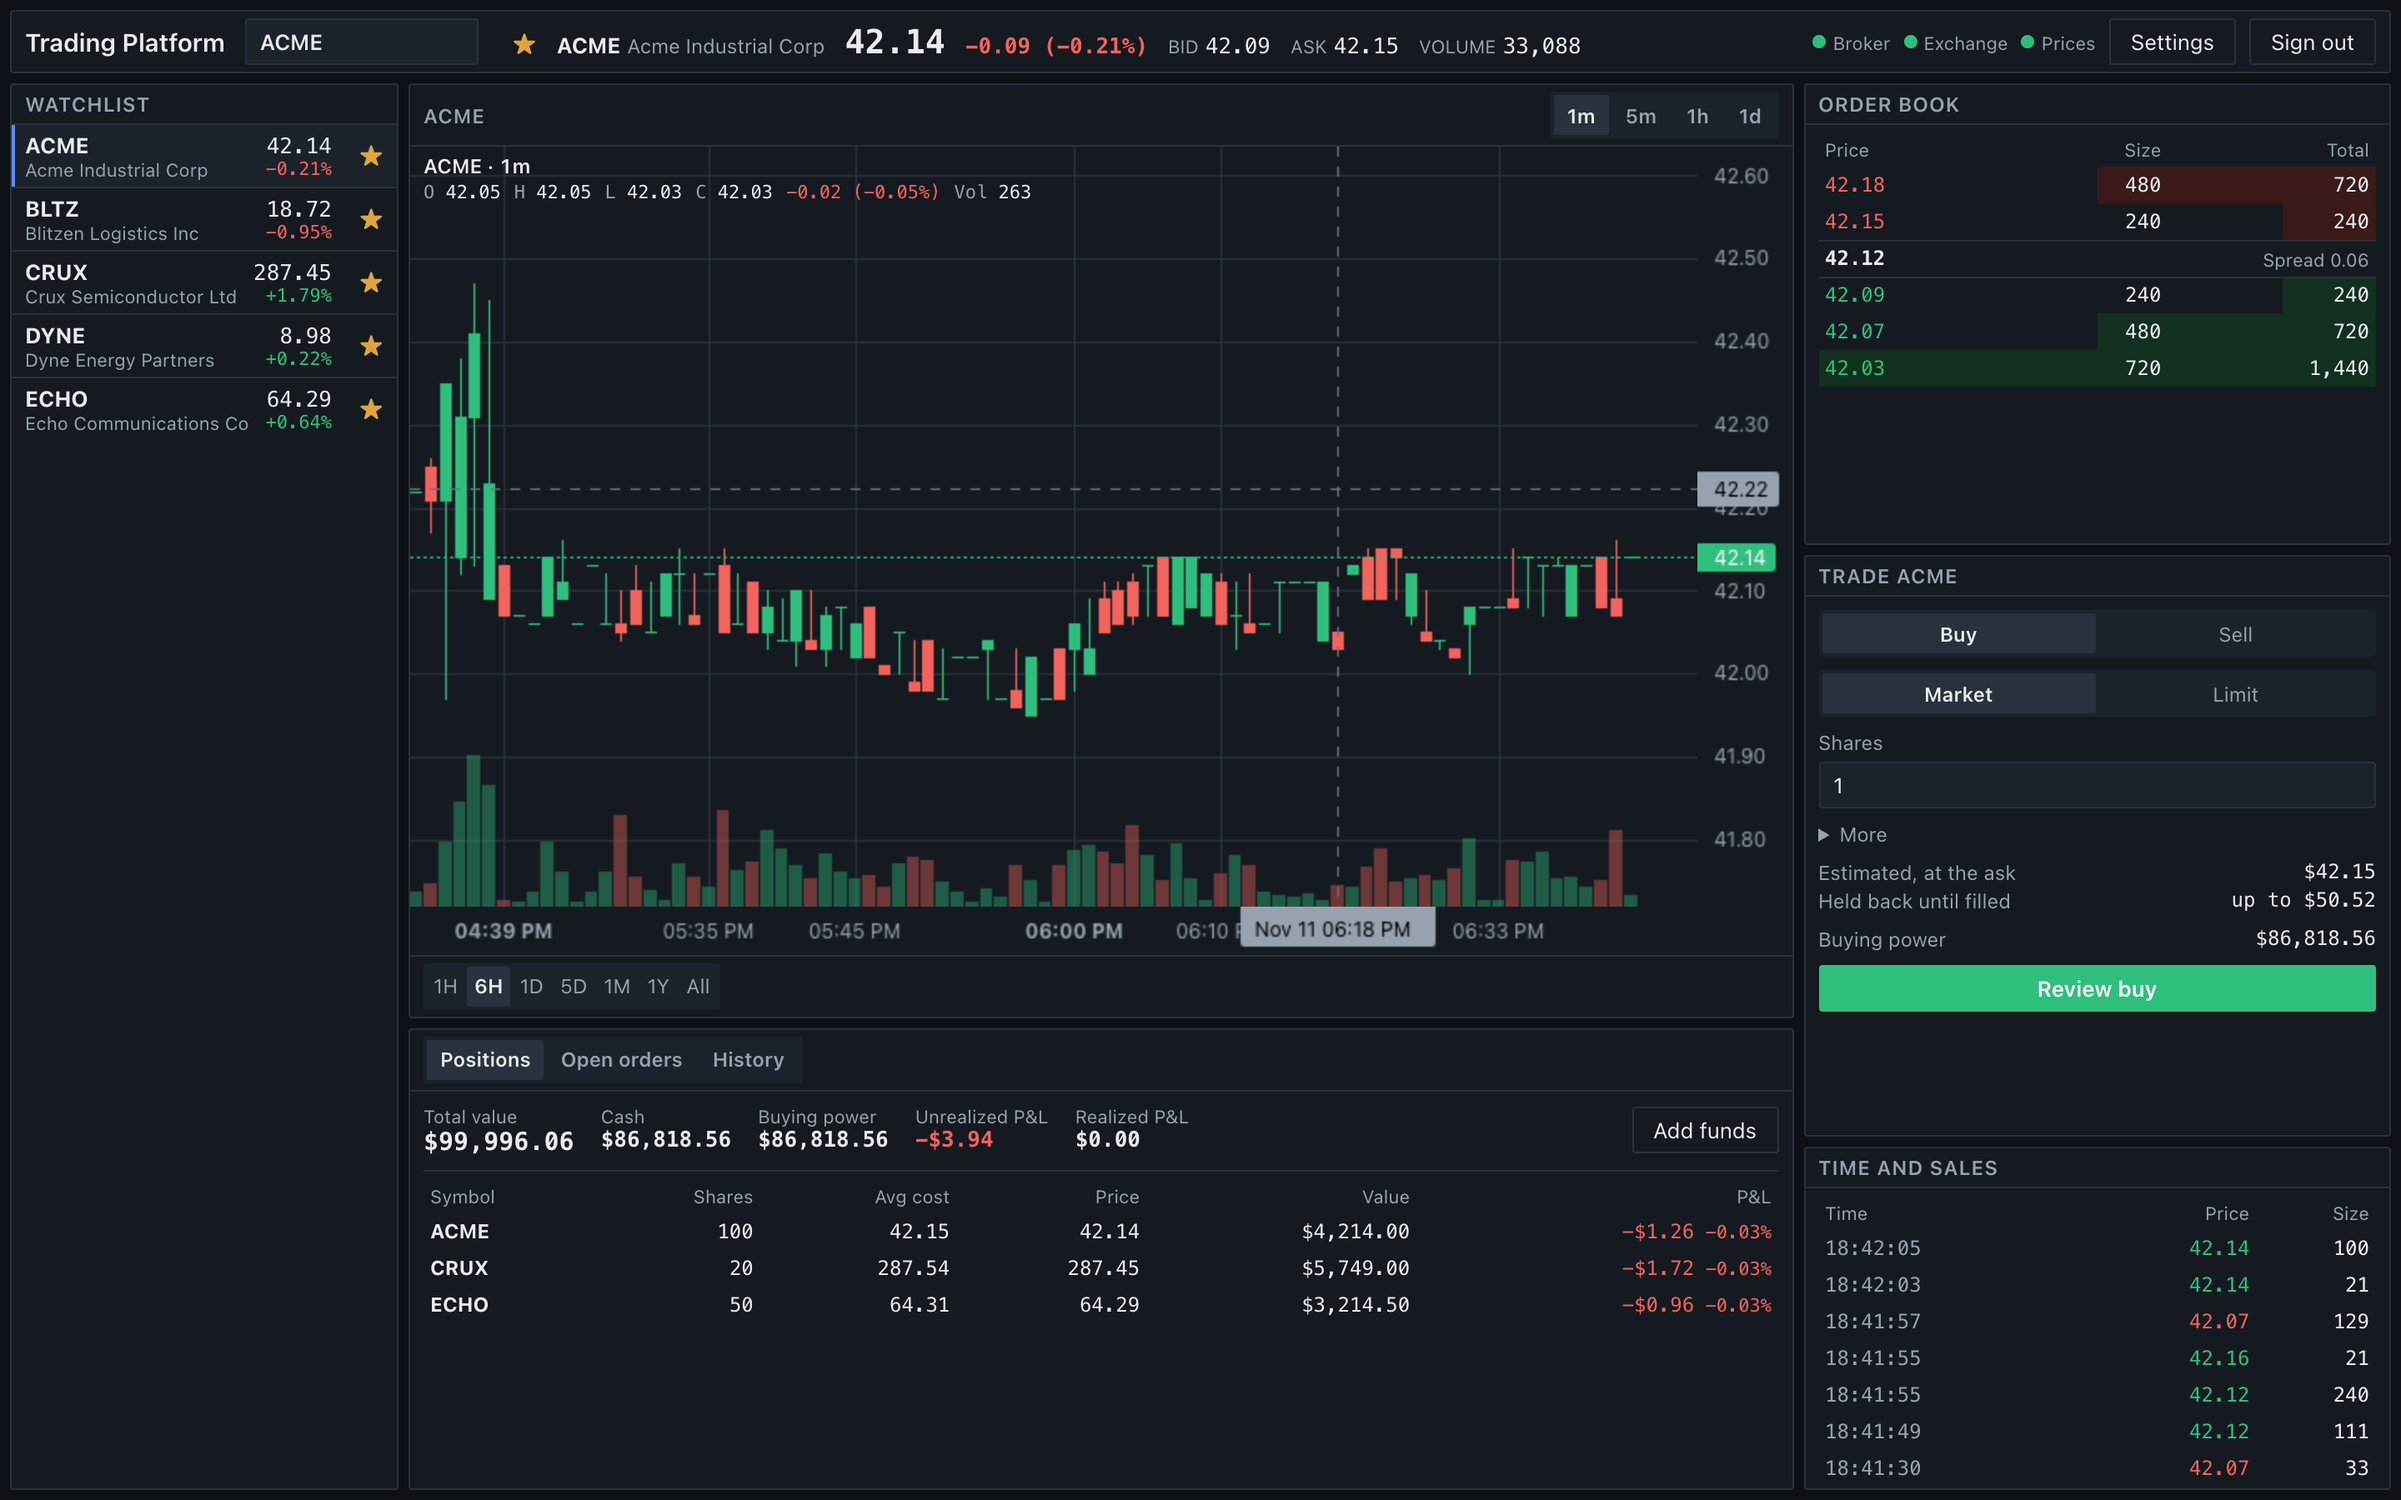
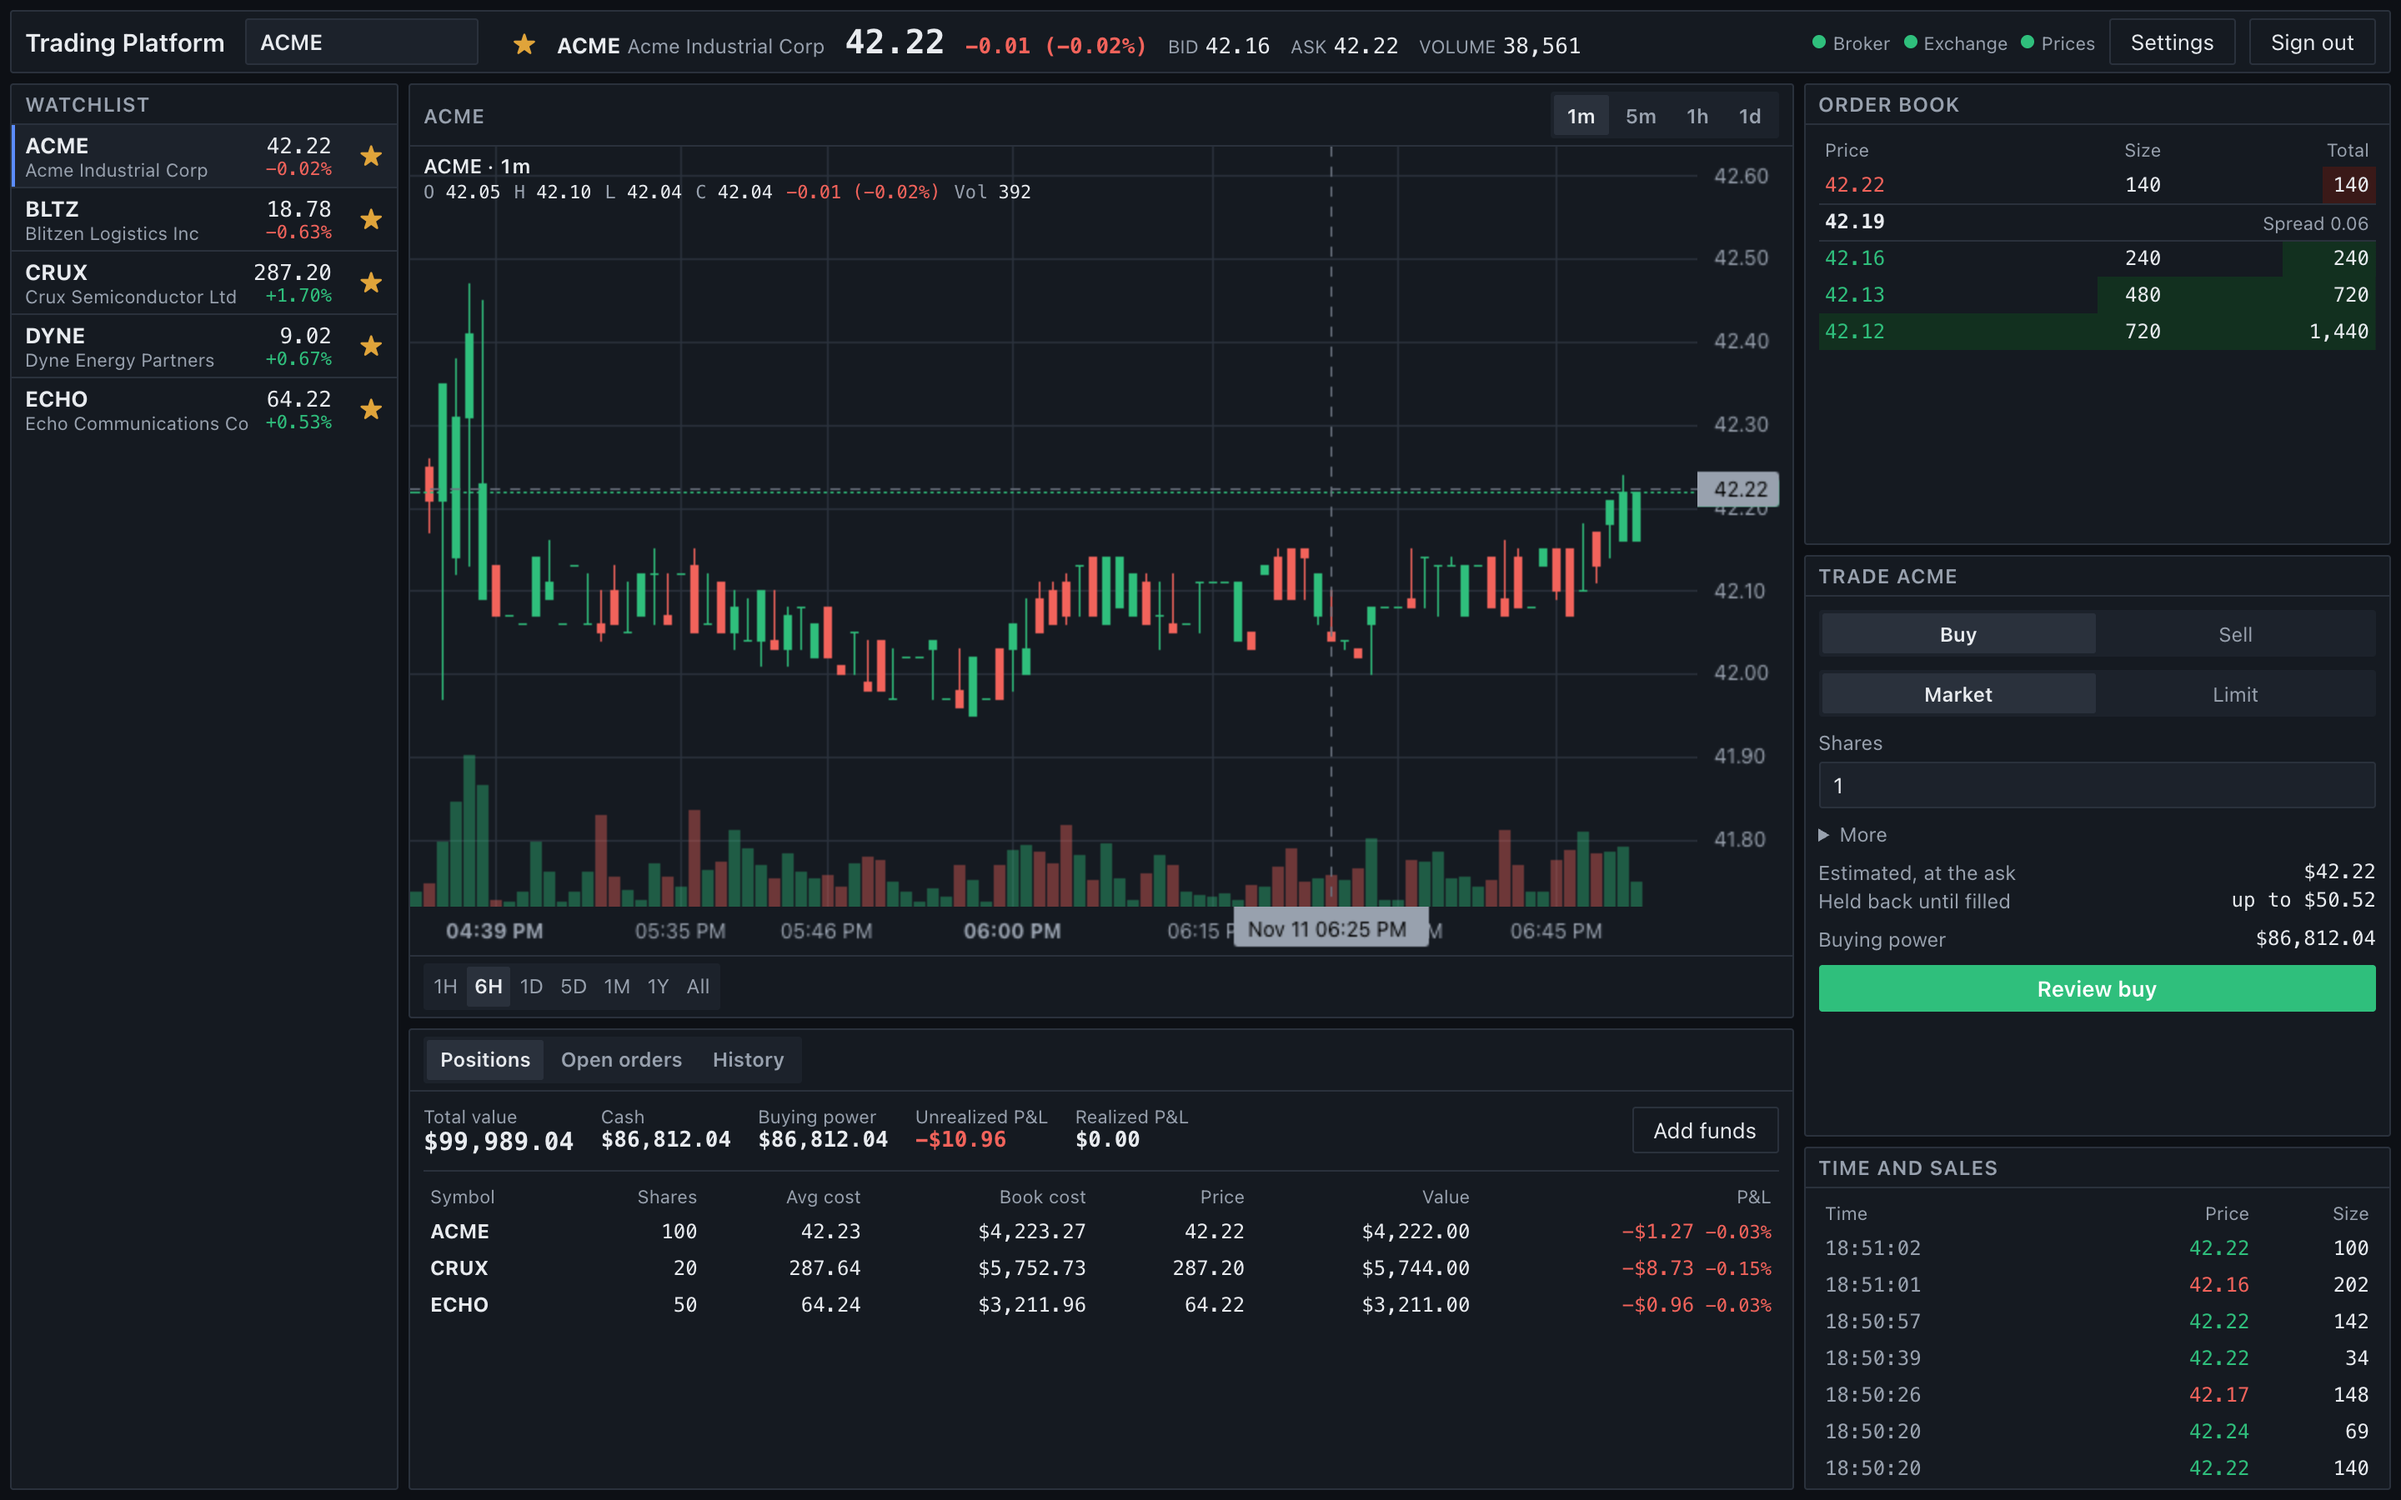
docs: screenshots with the new Active layout and Book cost

diff --git a/broker/web/TODO.md b/broker/web/TODO.md
@@ -351,11 +351,17 @@ Decisions:
 - **Defaults:** Active is the style a first visit gets (`DEFAULT_STYLE` in `theme/theme.ts`,
   repeated in `index.html`'s pre-paint script). The app is called "Trading Platform".
 - **Active's layout:** time and sales moved under the order book in the right column (ticket
-  5 rows, book 4, tape 3), and the watchlist has the full left column again. On a phone:
+  5 rows, book 4, tape 3); the watchlist runs the full height of the left column, and the
+  activity panel (positions, orders) sits under the chart. On a phone:
   chart, ticket, book, time and sales, then activity and the watchlist.
 - **Favicon:** `public/favicon.svg`, three candles (one down, two rising) on a dark tile,
   kept to a few thick shapes so it stays readable at 16px on light and dark tab bars.
-- **Positions tab:** no count in its name. Open orders keeps its count, since that one is
+- **Starting watchlist:** a new account now starts with every active symbol, up to 10
+  (`DEFAULT_WATCHLIST_SIZE` in the backend's `watchlist.ts`; it was the first 5). Ten are
+  listed today, so the whole market is starred. Accounts that already exist keep their lists.
+- **Positions tab:** no count in its name, and a **Book cost** column: what the shares still
+  held cost, fees included (`costBasisCents`, the figure P&L is measured against). In
+  Calm's list it is on the line under the symbol. Open orders keeps its count, since that one is
   worth noticing.
 
 ## Done when
